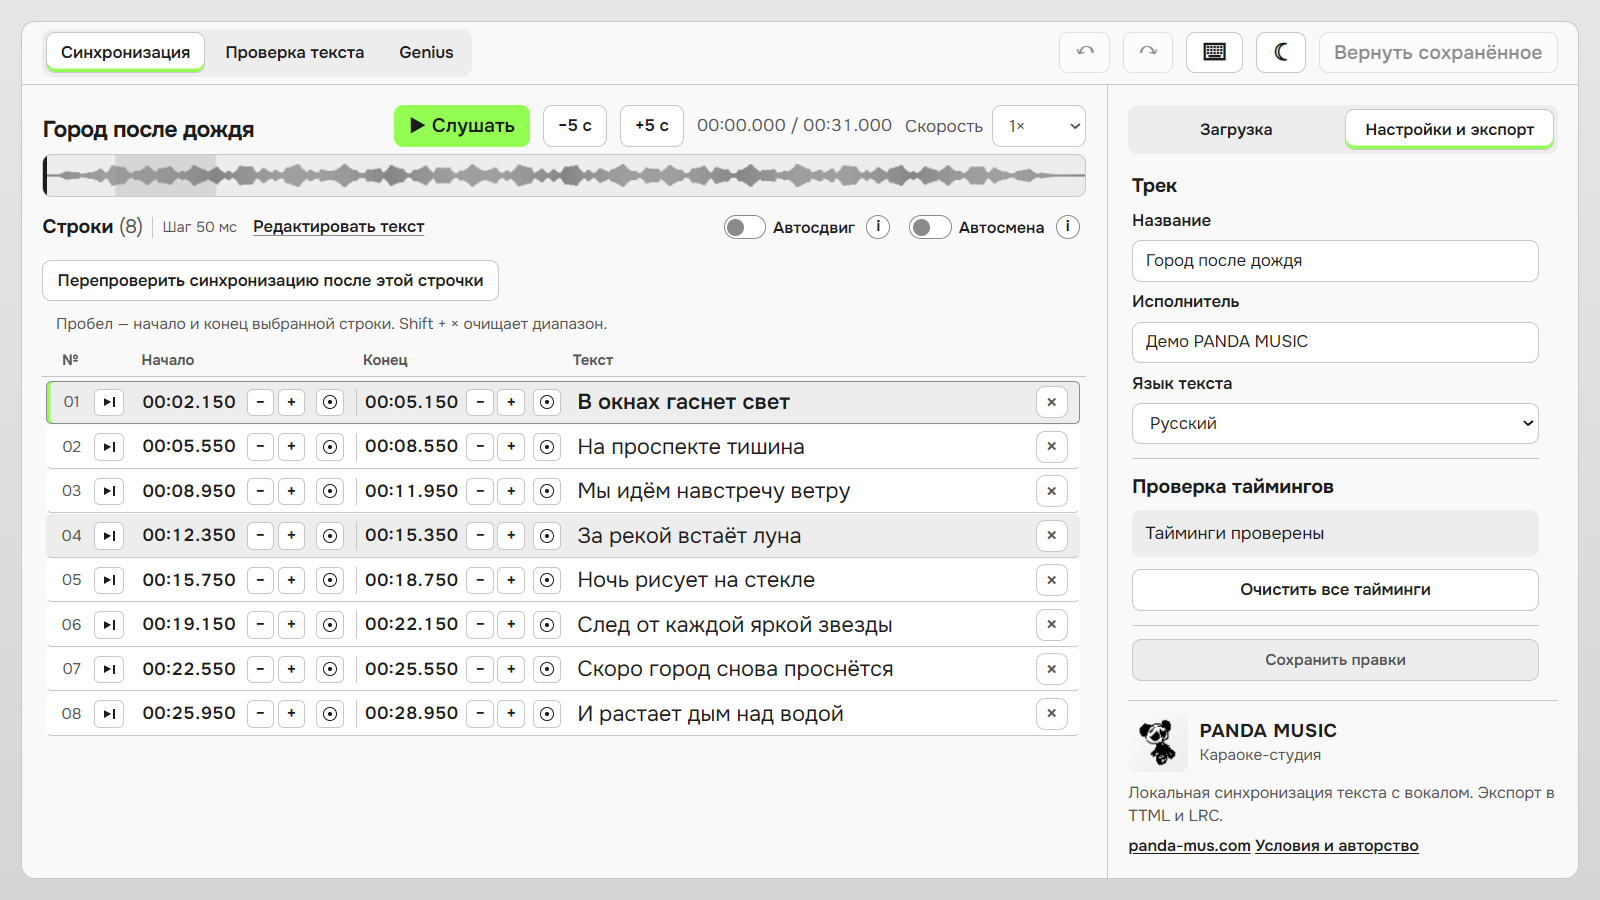
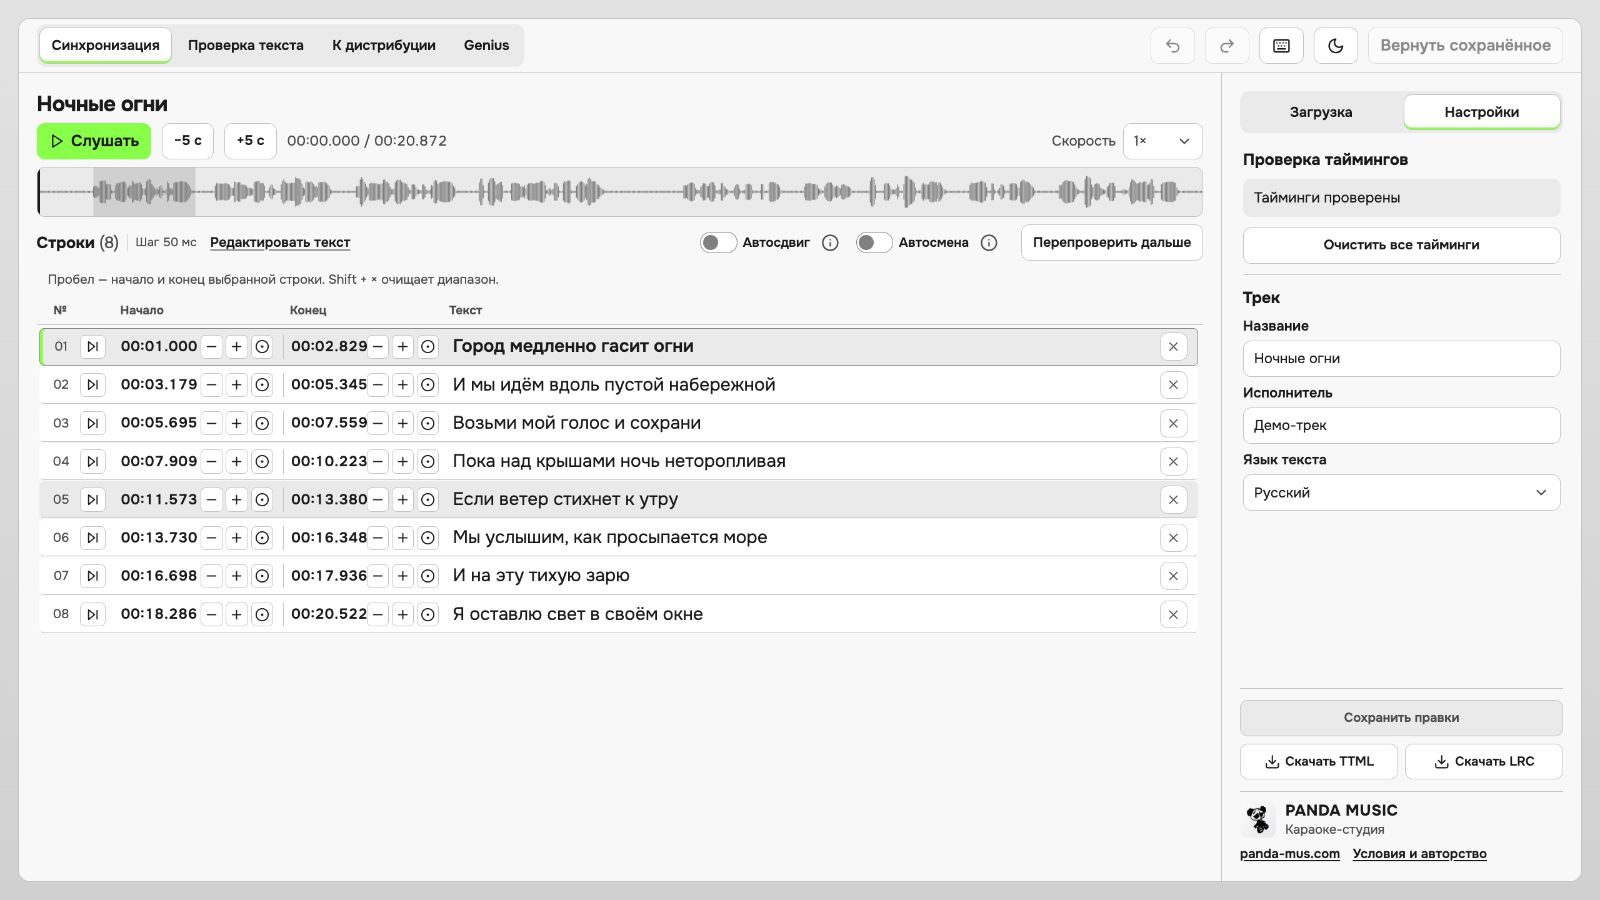
Simplify the project homepage and refresh the studio screenshot

diff --git a/README.md b/README.md
@@ -1,73 +1,17 @@
 # PANDA MUSIC — Караоке-студия
 
-**Бесплатная локальная караоке-студия для артистов.** Мы сделали её для своей работы в PANDA MUSIC и делимся ею, чтобы музыканты могли синхронизировать текст с вокалом и экспортировать TTML и LRC без подписки. Студия также проверяет текст, оформляет секции для Genius и готовит текст для дистрибуции по правилам Apple Music. Аудио и тексты обрабатываются на вашем компьютере.
+Бесплатная студия для синхронизации текста с вокалом, экспорта TTML/LRC и подготовки текстов к дистрибуции и для Genius.
 
-Версию PANDA MUSIC разработал [plawzar](https://github.com/plawzar) на основе [LRCGen](https://github.com/final-wav/LRCGen).
+**[Скачать для Windows и macOS](https://github.com/plawzar/panda-music-karaoke/releases/latest)** · [Как запустить](START-HERE.txt)
 
-**[Скачать beta.6 для Windows и macOS](https://github.com/plawzar/panda-music-karaoke/releases/tag/v0.1.0-beta.6)**. Поддержка Radeon через DirectML в этой версии экспериментальная.
+![Главное окно PANDA MUSIC с демонстрационным треком](docs/studio-screenshot.png)
 
-![Редактор таймингов PANDA MUSIC с демонстрационным треком](docs/studio-screenshot.png)
+Треки, тексты и проекты остаются на компьютере. Лаунчер сам скачивает локальные ИИ-модели для синхронизации и Genius.
 
-## Сколько места нужно
-
-ZIP весит **меньше 1 МБ**. Основной объём после установки занимают скачиваемые веса моделей и зависимости. Qwen3 для Genius весит около **2 ГБ** в компактном варианте и **2,5 ГБ** в полном. Модели распознавания и выделения вокала увеличивают размер кэша. В профиле NVIDIA много места дополнительно занимают PyTorch и библиотеки CUDA.
-
-| Режим | Размер установки | Свободное место перед установкой |
-| --- | --- | --- |
-| Windows в режиме CPU или Mac с базовыми зависимостями | 3–5 ГБ | от 8 ГБ |
-| Mac Apple Silicon с выделением вокала | зависит от скачанных моделей | от 10 ГБ |
-| Windows в режиме Radeon (DirectML) | зависит от моделей и зависимостей | точный объём не измерен |
-| Windows в режиме NVIDIA | 15–16 ГБ | от 20 ГБ |
-
-Размеры приблизительные. На протестированном Apple Silicon папки с моделями и средой заняли около **7 ГиБ** после работы студии. Загруженные треки и проекты занимают место отдельно.
-
-## Запуск
-
-Скачайте общий ZIP из GitHub Releases и распакуйте его целиком.
-
-| Система | Файл запуска |
-| --- | --- |
-| Windows 10/11 x64 | `Launch PANDA MUSIC Karaoke - Windows.bat` |
-| macOS 13.3 и новее, Apple Silicon и Intel | `Launch PANDA MUSIC Karaoke - Mac.command` |
-| Linux x64 / ARM64, экспериментально | `sh "./Launch PANDA MUSIC Karaoke - Mac.command"` из папки студии |
-
-При первом запуске скрипт автоматически загружает локальный Python 3.12, зависимости и текстовую модель. При первой автосинхронизации скачивается модель распознавания. Подробности в [START-HERE.txt](START-HERE.txt).
-
-На Windows с NVIDIA и подходящим драйвером включаются WhisperX, выделение вокала и адаптивный размер пакета обработки. На Apple Silicon текстовая модель может использовать Metal. Объём оперативной памяти определяет размер текстовой модели.
+ZIP весит меньше 1 МБ. Установка занимает примерно **3–8 ГБ**, с NVIDIA — **15–16 ГБ**. Основной объём занимают модели и зависимости. Режим AMD Radeon экспериментальный.
 
 ### Обновление существующей установки
 
-Начиная с **beta.6** штатный лаунчер при запуске проверяет GitHub Releases и предлагает установить более новую версию. Подтвердите установку в окне лаунчера клавишей `Y`. Можно пропустить предложение и запустить текущую версию. Для обновления скачивается только ZIP программы. Лаунчер проверяет SHA-256 архива, заменяет файлы программы и перезапускается. Проекты и кэш моделей остаются в исходной папке. Если GitHub недоступен, можно пользоваться установленной версией.
+С beta.6 лаунчер предлагает новые версии при запуске и сохраняет проекты и модели. С более ранней версии [обновись вручную один раз](START-HERE.txt).
 
-**Beta.5 и более ранние версии** нужно один раз обновить вручную до beta.6 или новее.
-Остановите студию. Распакуйте ZIP поверх установленной версии с заменой файлов программы, сохранив существующие папки `.runtime`, `.model-cache`, `venv`, `projects`, `uploads` и `outputs`. На macOS команда `ditto -x -k "путь-к-ZIP" "родительская-папка-студии"` объединяет содержимое архива с папкой `PANDA MUSIC Karaoke Studio`. Если установка называется иначе, распакуйте ZIP отдельно и перенесите файлы программы в старую папку с сохранением перечисленных каталогов.
-
-Запустите привычный лаунчер. Он проверит среду и обновит зависимости при необходимости. Скачанные модели переиспользуются, если подходят выбранному профилю.
-
-### Тестовый режим Radeon
-
-Установщик Windows выбирает Radeon, если система видит адаптер AMD, доступно от 6 ГиБ оперативной памяти и не выбран профиль NVIDIA. Для DirectML нужны совместимый с DirectX 12 адаптер и драйвер. Модель UVR MDX-Net выделяет вокал на GPU. Модель faster-whisper small int8 распознаёт слова на CPU, после чего студия сопоставляет их с загруженным текстом. После выделения доступна кнопка «Скачать вокал WAV».
-
-В консоли строка `Vocal separation (...): DirectML` показывает, что сессия использует DirectML. На компьютере с несколькими адаптерами по умолчанию используется адаптер с индексом 0. Индекс можно переопределить переменной окружения `PANDA_DIRECTML_DEVICE_ID`.
-
-При ошибке DirectML выделение продолжается на CPU. Если выделение не удалось или по вокальной дорожке не удалось сопоставить ни одной строки, автосинхронизация использует исходный микс. На Mac и в обычном режиме Windows CPU модель faster-whisper по умолчанию обрабатывает исходный микс. На Apple Silicon с 12 ГиБ оперативной памяти или больше студия использует модель small для автосинхронизации. Если часть строк не удалось сопоставить с аудио, редактор сообщает, сколько совпадений нашлось.
-
-Автосинхронизация по умолчанию использует настройки для сложных треков. На Apple Silicon с 12 ГиБ памяти или больше установщик подготавливает выделение вокала. При неполном совпадении студия может сравнить несколько вариантов распознавания.
-
-Сервис слушает только `127.0.0.1:8001`. Треки, тексты, проекты и экспорт хранятся на компьютере. Обращения к поставщикам используются для загрузки зависимостей и моделей. Редакционные правила PANDA MUSIC встроены. При каждой проверке текста студия читает обязательную памятку PANDA MUSIC из `docs/`. Если рабочий DOCX отсутствует, студия восстанавливает его из встроенной копии перед проверкой. Эту копию можно скачать по ссылке «Правила PANDA MUSIC». Неоднозначные термины и похожие написания отображаются отдельно.
-
-## Локальные модели и проверка текста
-
-- **Genius.** Qwen3 через llama.cpp предлагает структуру песни, когда её нельзя восстановить из текста. Лаунчер скачивает веса при первом запуске. Размер модели выбирается по объёму оперативной памяти.
-- **Синхронизация.** Faster-whisper или WhisperX распознают вокал. При первом использовании скачиваются нужные веса. В поддерживаемых профилях студия дополнительно скачивает модель выделения вокала.
-- **Проверка текста и дистрибуция.** Проверка использует локальный словарь и контекстные правила. Режим «К дистрибуции» применяет форматирование Apple Music без проверки на наркотики. Обе вкладки работают без генеративной модели.
-
-## Обратная связь
-
-Код версии PANDA MUSIC писался с помощью облачной версии ChatGPT. Студия пока в бете, поэтому возможны ошибки. Если что-то работает странно, напишите [автору plawzar](https://github.com/plawzar) или [откройте issue](https://github.com/plawzar/panda-music-karaoke/issues/new). Укажите версию студии, систему и шаги, на которых возникает ошибка.
-
-## Авторы и лицензия
-
-© 2026 PANDA MUSIC, изменения и дополнения. Основа проекта [LRCGen](https://github.com/final-wav/LRCGen) от final-wav и участников проекта. Код доступен по [GNU GPLv3](LICENSE). См. [авторство](NOTICE.md) и [политику использования](USAGE-POLICY.md).
-
-Установщик использует [uv](https://github.com/astral-sh/uv), [faster-whisper](https://github.com/SYSTRAN/faster-whisper) и [llama.cpp](https://github.com/ggml-org/llama.cpp/releases/tag/b12811). Для профиля NVIDIA он загружает [PyTorch](https://pytorch.org/), [WhisperX](https://github.com/m-bain/whisperX) и [FFmpeg](https://github.com/GyanD/codexffmpeg/releases/tag/7.1.1). Для Genius он выбирает [Qwen3-4B GGUF](https://huggingface.co/Qwen/Qwen3-4B-GGUF) или [Qwen3-1.7B GGUF](https://huggingface.co/Qwen/Qwen3-1.7B-GGUF). Лицензия шрифта Onest находится в `static/fonts/Onest-OFL.txt`.
+Сделано вайбкодингом с облачной версией ChatGPT на основе [LRCGen](https://github.com/final-wav/LRCGen). Возможны ошибки. [Сообщить автору @plawzar](https://github.com/plawzar/panda-music-karaoke/issues/new).
